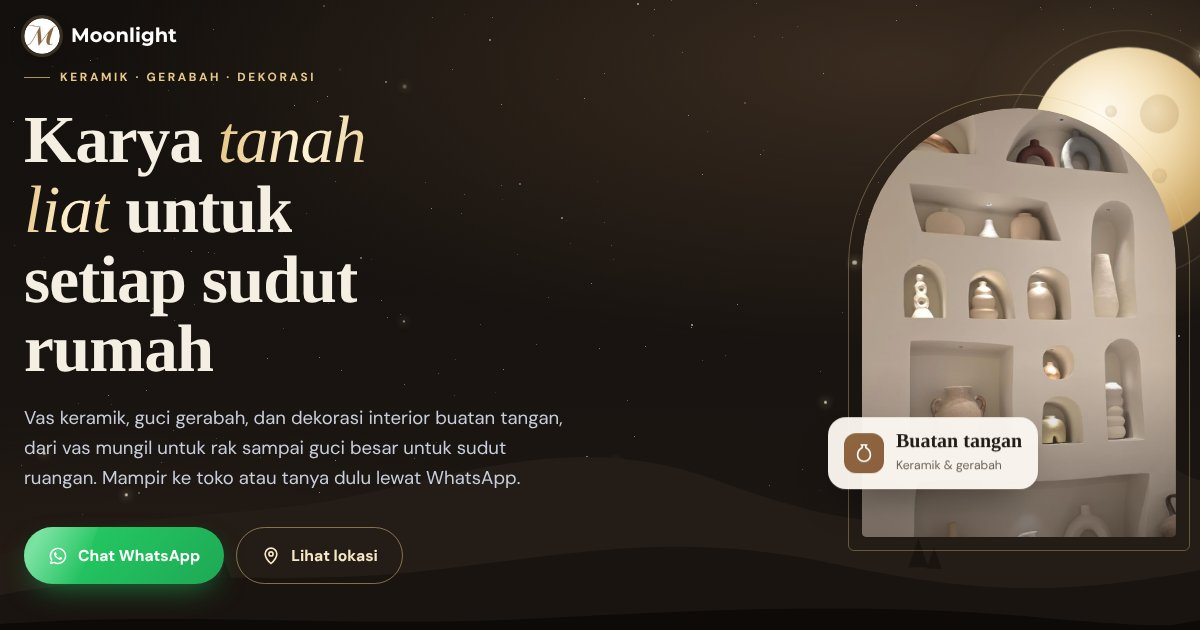
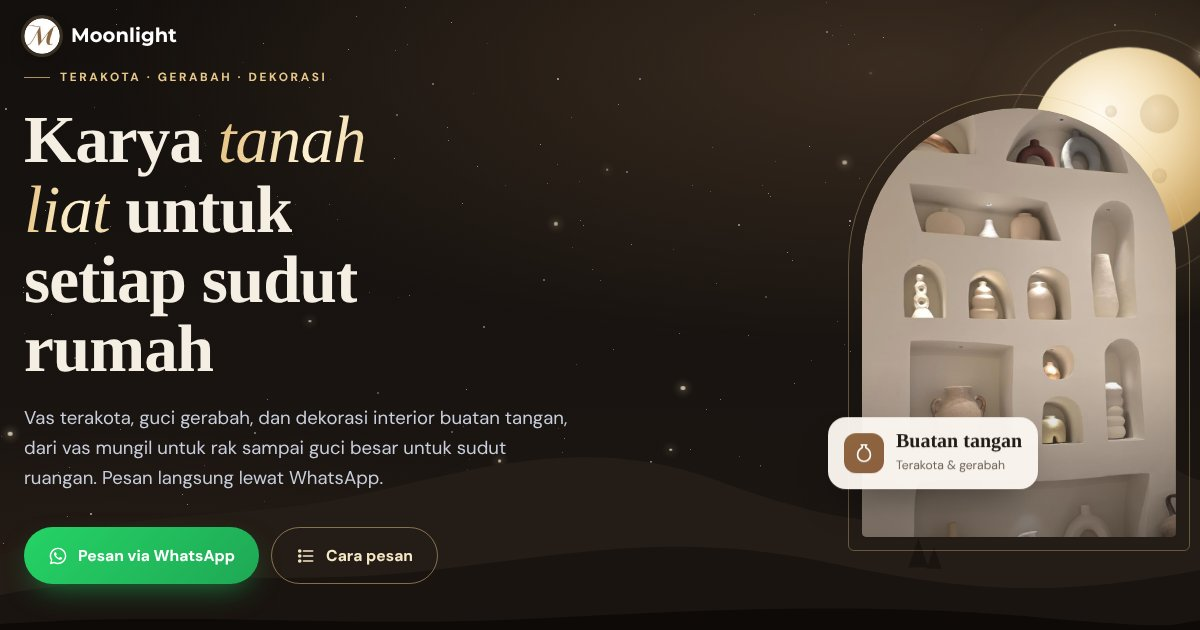
Ganti kata 'keramik' menjadi 'terakota' (EN: terracotta)
Claude-Session: https://claude.ai/code/session_014kZGgUi5c84hyLJmwMMb4o

diff --git a/index.html b/index.html
@@ -4,9 +4,9 @@
 <meta charset="UTF-8">
 <meta name="viewport" content="width=device-width, initial-scale=1, viewport-fit=cover">
 <title>Moonlight Art Shop</title>
-<meta name="description" content="Moonlight Art Shop: vas keramik, gerabah, guci, dan dekorasi interior buatan tangan. Art shop kami di Batubulan, Bali, pesan langsung lewat WhatsApp.">
+<meta name="description" content="Moonlight Art Shop: vas terakota, gerabah, guci, dan dekorasi interior buatan tangan. Art shop kami di Batubulan, Bali, pesan langsung lewat WhatsApp.">
 <meta property="og:title" content="Moonlight Art Shop">
-<meta property="og:description" content="Vas keramik, gerabah & dekorasi interior buatan tangan dari Bali. Pesan langsung lewat WhatsApp.">
+<meta property="og:description" content="Vas terakota, gerabah & dekorasi interior buatan tangan dari Bali. Pesan langsung lewat WhatsApp.">
 <meta property="og:type" content="website">
 <meta property="og:image" content="https://yblig.github.io/moonlight-art-shop/images/og-cover.jpg">
 <meta property="og:url" content="https://yblig.github.io/moonlight-art-shop/">
@@ -480,7 +480,7 @@ footer{background:var(--n0);color:#8f98ad;padding:70px 0 40px;font-size:.9rem;ov
       <div class="moon"><i></i><i></i><i></i><i></i></div>
     </div>
     <div class="arch-line" aria-hidden="true"></div>
-    <div class="arch"><img src="images/hero.jpg" alt="Koleksi vas keramik Moonlight Art Shop" fetchpriority="high"></div>
+    <div class="arch"><img src="images/hero.jpg" alt="Koleksi vas terakota Moonlight Art Shop" fetchpriority="high"></div>
     <div class="badge"><span class="bi"><svg viewBox="0 0 24 24" fill="none" stroke="currentColor" stroke-width="1.8" stroke-linecap="round" stroke-linejoin="round"><path d="M9 3h6M10 3v3c-3 1.5-5 4.5-5 8a7 7 0 0 0 14 0c0-3.5-2-6.5-5-8V3"/></svg></span><span><b data-t="badgeT"></b><small data-t="badgeS"></small></span></div>
   </div>
   </div>
@@ -632,14 +632,14 @@ const T = {
   id: {
     navAbout:"Tentang", navGallery:"Koleksi", navVisit:"Cara Pesan",
     tabHome:"Beranda", tabGallery:"Koleksi", tabAbout:"Tentang", tabVisit:"Pesan",
-    heroEyebrow:"Keramik · Gerabah · Dekorasi",
+    heroEyebrow:"Terakota · Gerabah · Dekorasi",
     heroTitle:"Karya *tanah liat* untuk setiap sudut rumah",
-    heroLead:"Vas keramik, guci gerabah, dan dekorasi interior buatan tangan, dari vas mungil untuk rak sampai guci besar untuk sudut ruangan. Pesan langsung lewat WhatsApp.",
+    heroLead:"Vas terakota, guci gerabah, dan dekorasi interior buatan tangan, dari vas mungil untuk rak sampai guci besar untuk sudut ruangan. Pesan langsung lewat WhatsApp.",
     ctaChat:"Pesan via WhatsApp", ctaMap:"Cara pesan", ctaDirections:"Lihat lokasi Art Shop", ctaOrder:"Chat sekarang", chipOrder:"Terima pesanan", lbAsk:"Pesan yang seperti ini", lbShare:"Bagikan ke WhatsApp", copied:"Link disalin",
-    badgeT:"Buatan tangan", badgeS:"Keramik & gerabah",
-    marquee:["Vas Keramik","Gerabah","Guci Besar","Vas Dekoratif","Topeng Dinding","Lampu Keramik","Mangkuk","Dekorasi Interior"],
+    badgeT:"Buatan tangan", badgeS:"Terakota & gerabah",
+    marquee:["Vas Terakota","Gerabah","Guci Besar","Vas Dekoratif","Topeng Dinding","Lampu Terakota","Mangkuk","Dekorasi Interior"],
     aboutEyebrow:"Tentang kami", aboutTitle:"Apa saja yang <em>kami jual</em>",
-    aboutText:"Moonlight Art Shop menjual keramik dan gerabah buatan tangan dengan warna-warna alami: vas, guci, mangkuk, dan dekorasi interior. Cocok untuk rumah, kafe, hotel, atau villa.",
+    aboutText:"Moonlight Art Shop menjual terakota dan gerabah buatan tangan dengan warna-warna alami: vas, guci, mangkuk, dan dekorasi interior. Cocok untuk rumah, kafe, hotel, atau villa.",
     prodEyebrow:"Contoh produk", prodTitle:"Sebagian <em>koleksi</em> kami",
     prodText:"Beberapa contoh karya dari Art Shop kami. Ketuk foto untuk memperbesar.",
     visitEyebrow:"Cara pesan", visitTitle:"Pesan <em>lewat WhatsApp</em>",
@@ -651,28 +651,28 @@ const T = {
       ["Pilih produk","Kirim foto dari galeri ini atau ceritakan bentuk, warna, dan ukuran yang dicari."],
       ["Konfirmasi pesanan","Harga, ketersediaan, dan pengiriman dibahas langsung lewat chat."]
     ],
-    shareMsg:u=>`Lihat dekorasi keramik cantik dari Moonlight Art Shop ✨\nBuka link ini untuk lihat fotonya:\n${u}`,
+    shareMsg:u=>`Lihat dekorasi terakota cantik dari Moonlight Art Shop ✨\nBuka link ini untuk lihat fotonya:\n${u}`,
     lbMsg:n=>`Halo Moonlight Art Shop, saya tertarik dengan produk seperti foto nomor ${n} di web. Boleh info lebih lanjut?`,
     waMsg:"Halo Moonlight Art Shop, saya mau pesan / tanya produk.",
     enlarge:"Perbesar foto",
     cats:[
-      ["vase","Vas Keramik","Vas berbagai bentuk dan ukuran, dari yang mungil untuk meja sampai yang tinggi untuk lantai."],
+      ["vase","Vas Terakota","Vas berbagai bentuk dan ukuran, dari yang mungil untuk meja sampai yang tinggi untuk lantai."],
       ["jar","Gerabah & Guci","Guci dan tempayan tanah liat bertekstur alami untuk sudut ruangan, teras, atau taman."],
       ["donut","Vas Dekoratif","Bentuk modern dan organik, seperti vas berlubang dan bentuk lengkung, untuk tampilan minimalis."],
-      ["bowl","Mangkuk & Aksen","Mangkuk, wadah, dan pernak-pernik keramik untuk mempercantik rak dan meja."]
+      ["bowl","Mangkuk & Aksen","Mangkuk, wadah, dan pernak-pernik terakota untuk mempercantik rak dan meja."]
     ]
   },
   en: {
     navAbout:"About", navGallery:"Collection", navVisit:"How to Order",
     tabHome:"Home", tabGallery:"Gallery", tabAbout:"About", tabVisit:"Order",
-    heroEyebrow:"Ceramics · Pottery · Décor",
+    heroEyebrow:"Terracotta · Pottery · Décor",
     heroTitle:"Handmade *clay pieces* for every corner",
-    heroLead:"Ceramic vases, earthenware jars and handmade interior décor, from small shelf vases to large floor jars. Order directly on WhatsApp.",
+    heroLead:"Terracotta vases, earthenware jars and handmade interior décor, from small shelf vases to large floor jars. Order directly on WhatsApp.",
     ctaChat:"Order on WhatsApp", ctaMap:"How to order", ctaDirections:"See Art Shop location", ctaOrder:"Chat now", chipOrder:"Taking orders", lbAsk:"Order one like this", lbShare:"Share on WhatsApp", copied:"Link copied",
-    badgeT:"Handmade", badgeS:"Ceramics & pottery",
-    marquee:["Ceramic Vases","Earthenware","Large Jars","Sculptural Vases","Wall Masks","Ceramic Lamps","Bowls","Interior Décor"],
+    badgeT:"Handmade", badgeS:"Terracotta & pottery",
+    marquee:["Terracotta Vases","Earthenware","Large Jars","Sculptural Vases","Wall Masks","Terracotta Lamps","Bowls","Interior Décor"],
     aboutEyebrow:"About us", aboutTitle:"What <em>we sell</em>",
-    aboutText:"Moonlight Art Shop sells handmade ceramics and pottery in natural tones: vases, jars, bowls and interior décor. Perfect for homes, cafés, hotels and villas.",
+    aboutText:"Moonlight Art Shop sells handmade terracotta and pottery in natural tones: vases, jars, bowls and interior décor. Perfect for homes, cafés, hotels and villas.",
     prodEyebrow:"Featured", prodTitle:"A few of our <em>pieces</em>",
     prodText:"A few examples from our Art Shop. Tap a photo to enlarge.",
     visitEyebrow:"How to order", visitTitle:"Order <em>on WhatsApp</em>",
@@ -684,15 +684,15 @@ const T = {
       ["Choose a piece","Send a photo from this gallery or describe the shape, colour and size you want."],
       ["Confirm your order","Price, availability and delivery are discussed directly in the chat."]
     ],
-    shareMsg:u=>`Check out this beautiful ceramic décor from Moonlight Art Shop ✨\nOpen this link to see the photo:\n${u}`,
+    shareMsg:u=>`Check out this beautiful terracotta décor from Moonlight Art Shop ✨\nOpen this link to see the photo:\n${u}`,
     lbMsg:n=>`Hi Moonlight Art Shop, I'm interested in a piece like photo number ${n} on your website. Could you tell me more?`,
     waMsg:"Hi Moonlight Art Shop, I'd like to order / ask about a product.",
     enlarge:"Enlarge photo",
     cats:[
-      ["vase","Ceramic Vases","Vases in every shape and size, from tabletop pieces to tall floor vases."],
+      ["vase","Terracotta Vases","Vases in every shape and size, from tabletop pieces to tall floor vases."],
       ["jar","Earthenware Jars","Clay jars and urns with natural textures for corners, terraces or gardens."],
       ["donut","Sculptural Vases","Modern, organic forms like open-centre and curved vases for a minimal look."],
-      ["bowl","Bowls & Accents","Bowls, vessels and small ceramic accents for shelves and tables."]
+      ["bowl","Bowls & Accents","Bowls, vessels and small terracotta accents for shelves and tables."]
     ]
   }
 };

diff --git a/README.md b/README.md
@@ -1,6 +1,6 @@
 # Moonlight Art Shop
 
-Web promosi satu halaman untuk Moonlight Art Shop (keramik, gerabah & dekorasi interior): cara pesan lewat WhatsApp, lokasi Art Shop dengan peta, dan galeri contoh produk. Bahasa Indonesia + English, dioptimalkan untuk HP.
+Web promosi satu halaman untuk Moonlight Art Shop (terakota, gerabah & dekorasi interior): cara pesan lewat WhatsApp, lokasi Art Shop dengan peta, dan galeri contoh produk. Bahasa Indonesia + English, dioptimalkan untuk HP.
 
 Live: https://yblig.github.io/moonlight-art-shop/
 
